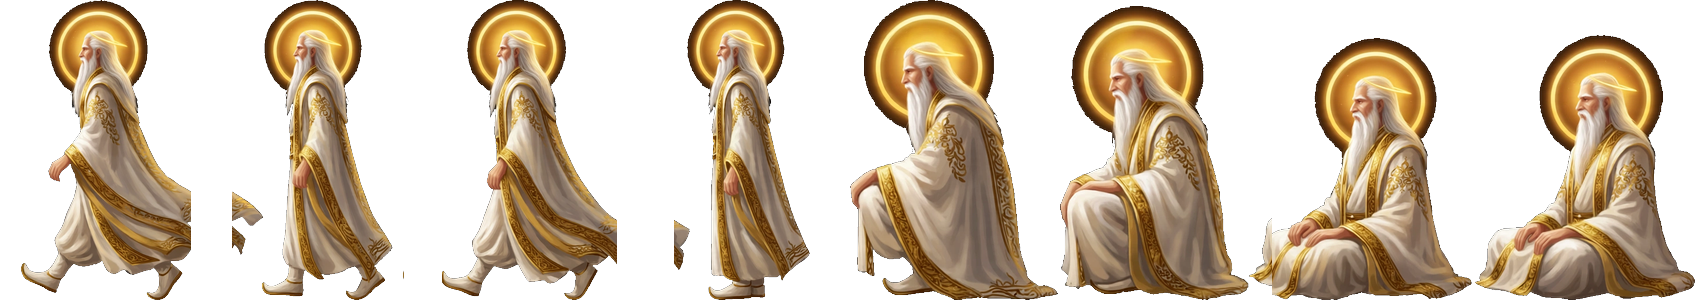
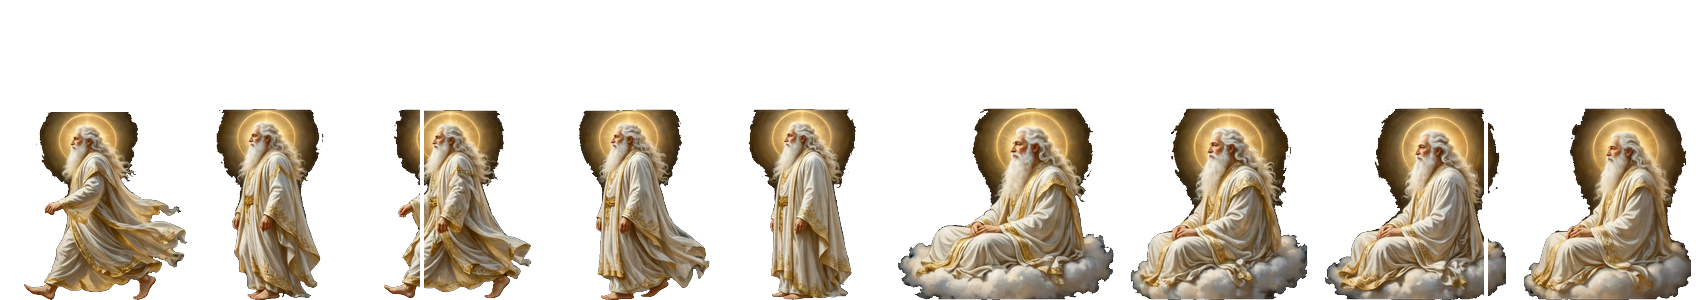
fix: nền thềm mây + dải 3 ghế trên thống nhất phong cách, nhìn ngang, ngồi đệm mây; tăng tỉ lệ ghế thầy

diff --git a/live/overlay.html b/live/overlay.html
@@ -131,7 +131,7 @@ function reseat(){
 document.getElementById('count').textContent = '0/24';
 
 /* the three fixed teachers in front of the altar */
-const TEACHERS = [ { name:'Michael', skin:'monk', idle:'idle_monk', x:300, y:1085, s:.36 }, { name:'Chúa Trời', skin:'master', idle:'idle_master', x:540, y:1100, s:.4, master:true }, { name:'Gabriel', skin:'nun', idle:'idle_nun', x:780, y:1085, s:.36 } ];
+const TEACHERS = [ { name:'Michael', skin:'monk', idle:'idle_monk', x:300, y:1100, s:.45 }, { name:'Chúa Trời', skin:'master', idle:'idle_master', x:540, y:1110, s:.5, master:true }, { name:'Gabriel', skin:'nun', idle:'idle_nun', x:780, y:1100, s:.45 } ];
 
 function addVisitor(p, instant){
   if (visitors.has(p.id)) { Object.assign(visitors.get(p.id), { name:p.name, skin:p.skin, avatar:p.avatar, coins:p.coins }); return; }
